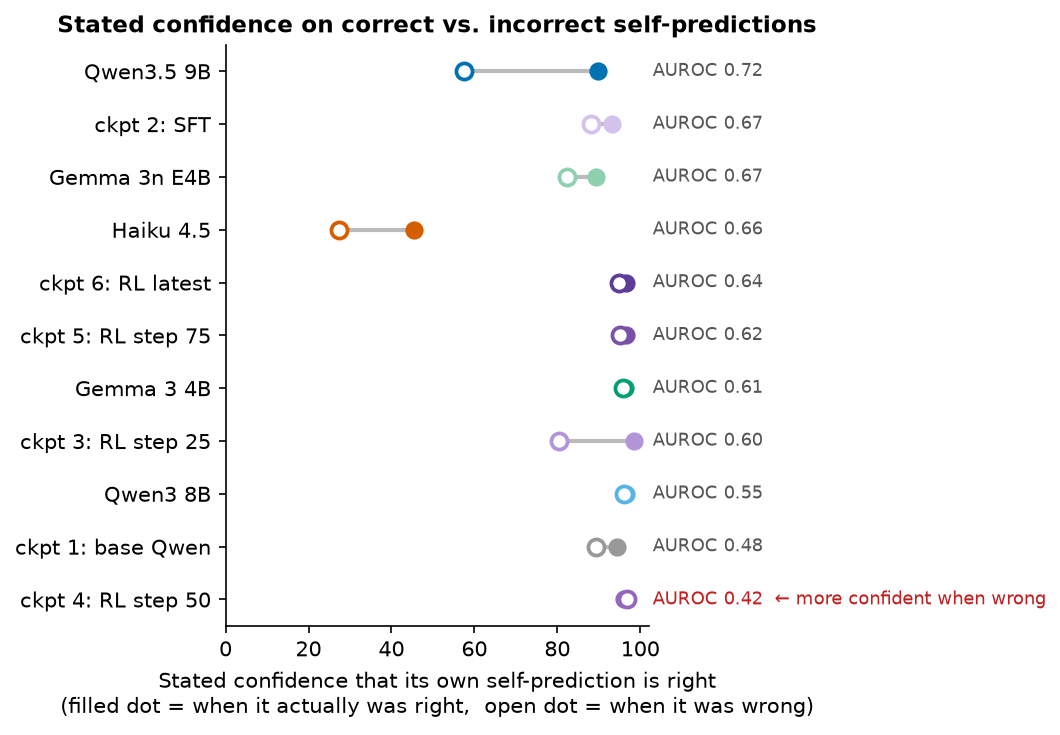
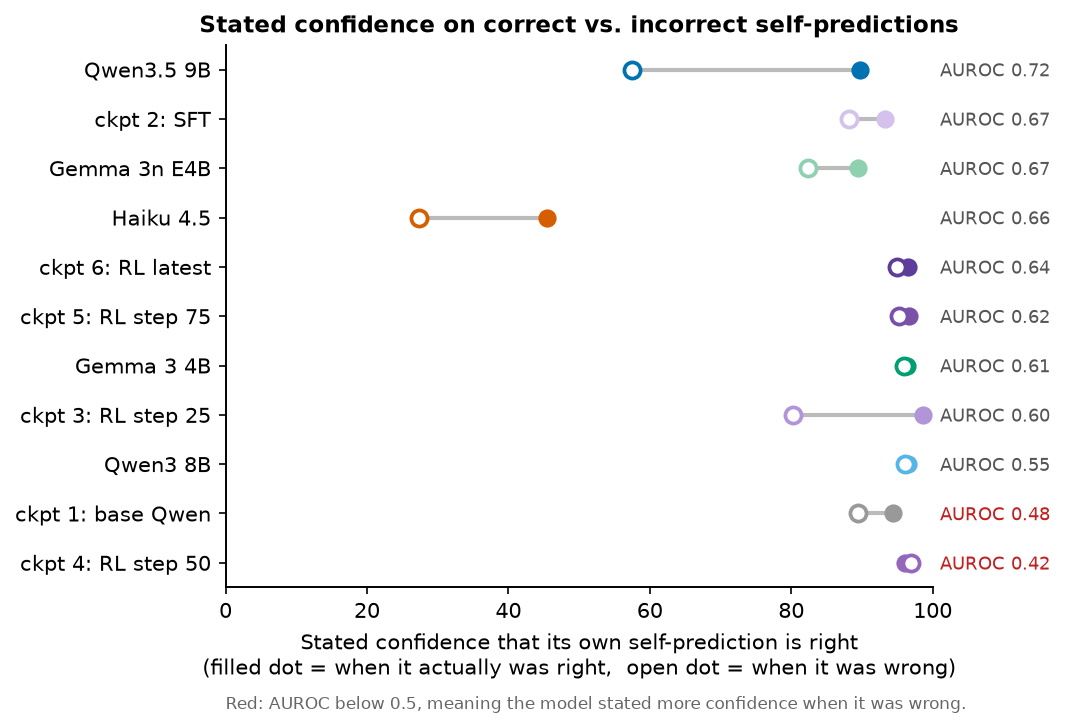
Improved figures

diff --git a/self-confidence/figures.py b/self-confidence/figures.py
@@ -117,25 +117,36 @@ save(fig, "fig1.png")
 # Stated confidence when the self-prediction was right vs wrong
 order = sorted(API + RL, key=lambda mk: report[mk].get("auroc2_self") or 0)
 fig, ax = plt.subplots(figsize=(7.2, 5.0))
+aurocs = []
 for y, mk in enumerate(order):
     M = report[mk]
     r, w = M.get("mode_conf_hit"), M.get("mode_conf_miss")
     if r is None or w is None:
+        aurocs.append(None)
         continue
-    bad = w > r
     ax.plot([w, r], [y, y], color="#bbbbbb", lw=2, zorder=1)
-    ax.scatter([r], [y], s=60, color=COLOR[mk], zorder=3, label="right" if y == 0 else None)
+    ax.scatter([r], [y], s=60, color=COLOR[mk], zorder=3)
     ax.scatter([w], [y], s=60, facecolors="white", edgecolors=COLOR[mk],
-               lw=1.8, zorder=3, label="wrong" if y == 0 else None)
-    a = M.get("auroc2_self")
-    note = f"AUROC {a:.2f}" + ("  ← more confident when wrong" if bad else "")
-    ax.text(103, y, note, va="center", fontsize=8.5,
-            color="#c02020" if bad else "#555555")
+               lw=1.8, zorder=3)
+    aurocs.append(M.get("auroc2_self"))
 ax.set_yticks(range(len(order)), [NAME[m] for m in order])
-ax.set_xlim(0, 102)
+ax.set_xlim(0, 100)
 ax.set_xlabel("Stated confidence that its own self-prediction is right\n"
               "(filled dot = when it actually was right,  open dot = when it was wrong)")
 ax.set_title("Stated confidence on correct vs. incorrect self-predictions")
+
+# AUROC lives on a twin axis rather than as text past the x limit, so the
+# plot area keeps the full figure width instead of being squeezed to two thirds
+ax2 = ax.twinx()
+ax2.set_ylim(ax.get_ylim())
+ax2.set_yticks(range(len(order)),
+               ["" if a is None else f"AUROC {a:.2f}" for a in aurocs])
+ax2.tick_params(length=0)
+for t, a in zip(ax2.get_yticklabels(), aurocs):
+    t.set_fontsize(8.5)
+    t.set_color("#c02020" if (a is not None and a < 0.5) else "#555555")
+ax.text(0, -0.20, "Red: AUROC below 0.5, meaning the model stated more confidence when it was wrong.",
+        transform=ax.transAxes, fontsize=8, color="#666666", va="top")
 save(fig, "fig2.png")
 
 # ---------------------------------------------------------------- figure 3
